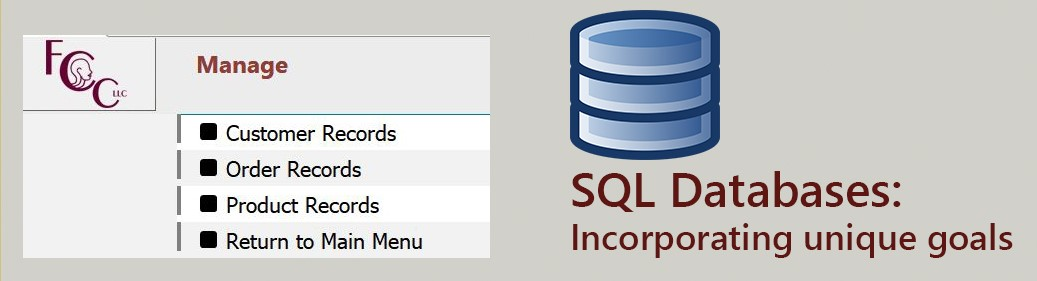
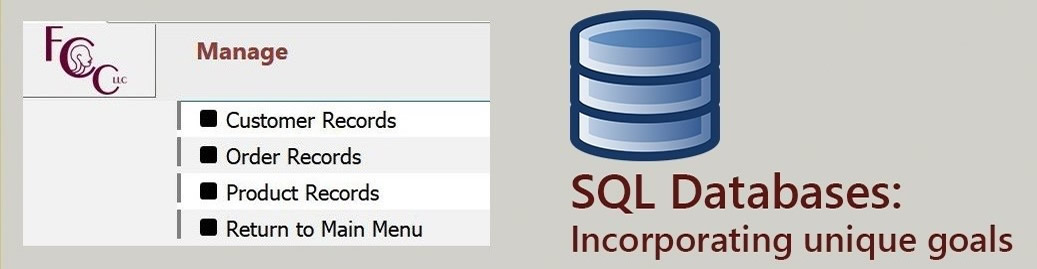
Final 2 Skill Slides
Adding the final 2 skills slides

diff --git a/skills.html b/skills.html
@@ -29,11 +29,13 @@
 <div id="Menu">
 <h2 style="padding-top: 15px">John Veenstra's <a href="index.html">Intro</a> |  <a href="resume.html">Resume </a>| <a href="skills.html">Skills</a> </h2></div>
 
-<div class="carouselwrap" style="width: 810px">
+<div class="carouselwrap" style="width: 1042px">
 	<div class="slider">
-    <div><img src="images/Skills slide 1.jpg" width="1037" height="281" alt=""/></div>
+    <div><img src="images/Skills slide 1.jpg" width="1037" height="269" alt=""/></div>
     <div><img src="images/Skills slide 2.jpg" width="1037" height="261" alt=""/></div>
-  </div>
+	<div><img src="images/Skills slide 3.jpg" width="1039" height="262" alt=""/></div>
+	<div><img src="images/Skills slide 4.jpg" width="1036" height="258" alt=""/></div>
+	</div>
 </div>
 
 <div class="HalfBox" id="Samples" style="float: left">
@@ -45,7 +47,7 @@
 </div>
 
 <div class="HalfBox" id="Support" style="float: right">
-	<h2>Tech Help Sites:</h2>
+	<h2>Tech Help Site Profiles:</h2>
 <ul style="font-size: 22px">
 	<li><a href="https://answers.microsoft.com/en-us/profile/644bed11-fb85-4638-9923-5e23ef9d1b00" target="_blank">Microsoft Answers comunity support</a></li>
 	<li><a href="https://stackexchange.com/users/12468181/veens003" target="_blank">Stack Exchange for databases</a></li>
